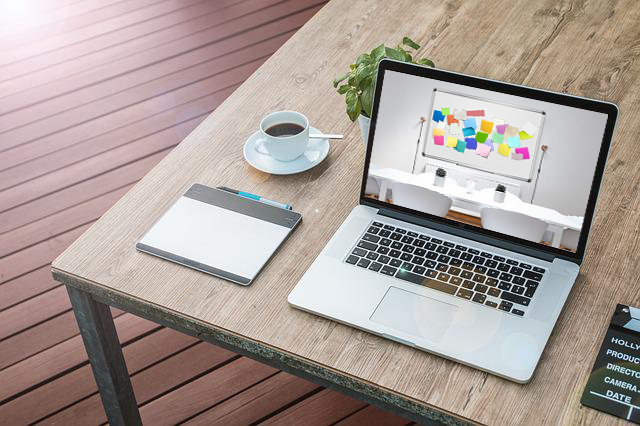
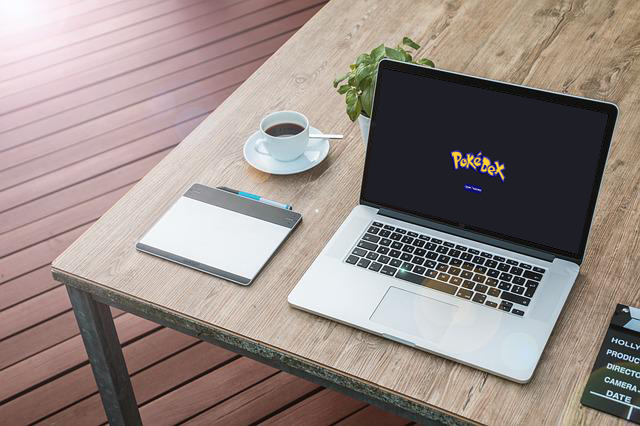
few changes adding new project

Changed region(s): [[0.5625, 0.1526, 0.9688, 0.6103]]

diff --git a/src/app/projects/projects.component.html b/src/app/projects/projects.component.html
@@ -68,9 +68,9 @@
         <div [ngClass]="opacity4? 'overlay' : 'd-none'"> </div>
         <div class="middle">
             <div class="text">
-                <p class="hover-title">Kanban</p>
-                <p class="hover-text">Js - based tasks management system</p>
-                <a  target="_blank" href="http://gruppe-126.developerakademie.net/Join-Kanban%20Endversion/index.html">
+                <p class="hover-title">Pokedex</p>
+                <p class="hover-text">API based library to check Pokemons from the famous Nintendo game.</p>
+                <a  target="_blank" href="https://buenyamin-altan.developerakademie.com/Pokedex/index.html">
                     <button class="img-button">Try it</button>
                 </a>
                     

diff --git a/src/app/about/about.component.html b/src/app/about/about.component.html
@@ -43,7 +43,7 @@
                 <p>I SEARCHED</p>
 
                 <p>
-                    I was looking for a way to become professional in this direction, so I decided to join the Developer Academy to learn a lot of new things </p>
+                     for a way to become professional in this direction, so I decided to join the Developer Academy to learn a lot of new things </p>
 
             </div>
 

diff --git a/src/styles.scss b/src/styles.scss
@@ -14,7 +14,7 @@ html{
 body{
     margin: 0;
     // background-image: linear-gradient(to right top, #000000, #060606, #0c0c0c, #111111, #151515, #151515, #151515, #151515, #111111, #0c0c0c, #060606, #000000);
-    background-image: linear-gradient( #000000 10%, #1a1a1a 20%, #000000);
+    background-image: linear-gradient( #000000 28%, #1a1a1a 34%, #000000);
 
 
 
